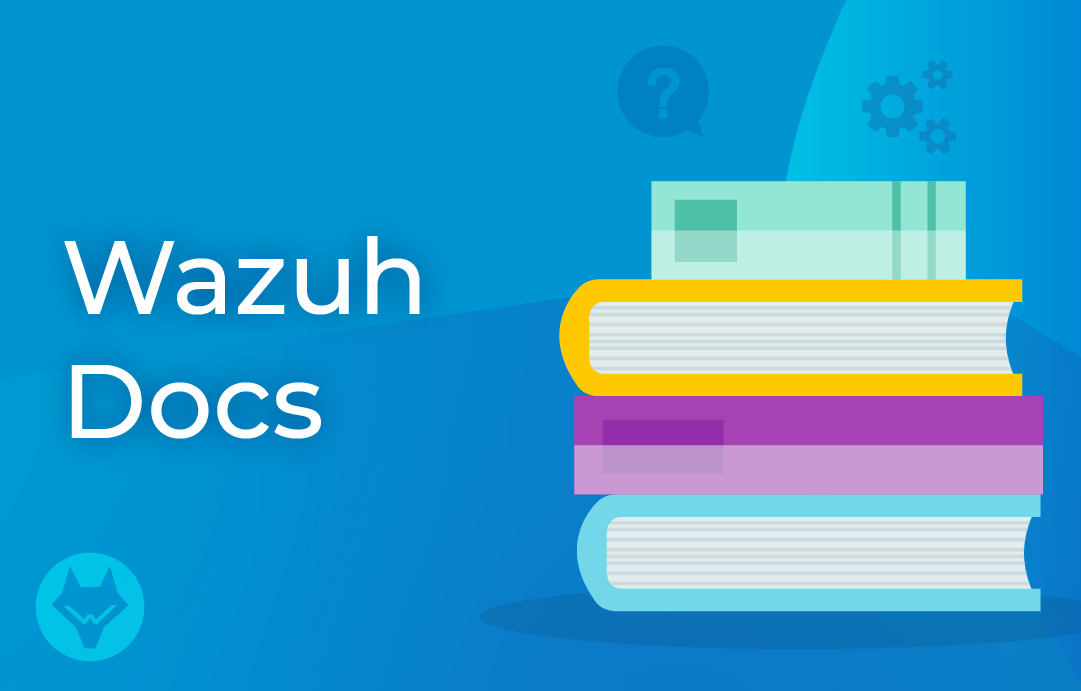
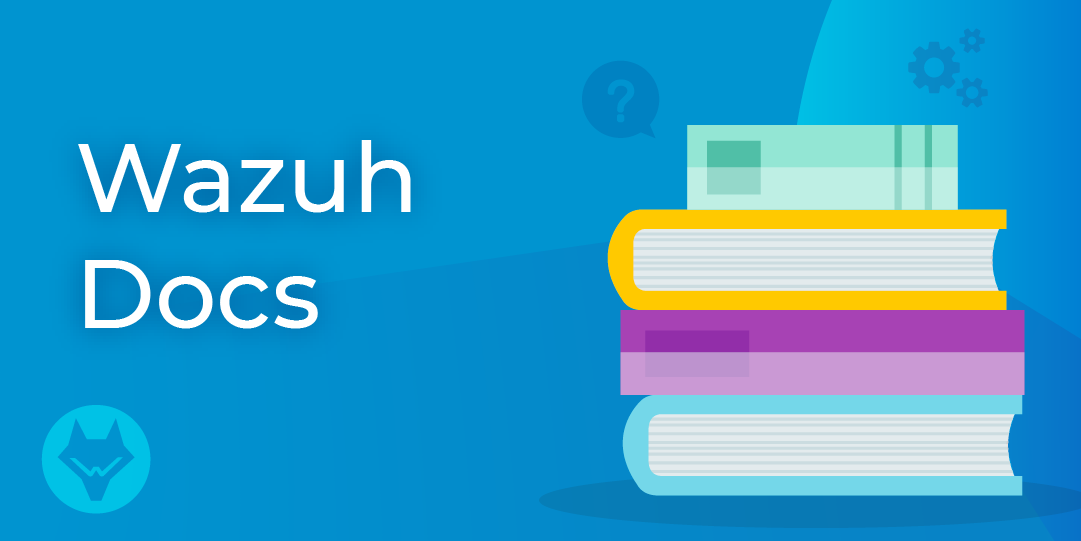
Adjusted image and text for the Twitter card

diff --git a/source/_themes/wazuh_doc_theme/layout.html b/source/_themes/wazuh_doc_theme/layout.html
@@ -42,8 +42,8 @@
 
   <meta name="twitter:card" content="summary_large_image" />
   <meta name="twitter:site" content="@wazuh" />
-  <meta name="twitter:title" content="Wazuh documentation" />
-  <meta name="twitter:description" content="Visit our documentation." />
+  <meta name="twitter:title" content="Documentation · Wazuh · The Open Source Security Platform" />
+  <meta name="twitter:description" content="User manual, installation and configuration guides. Get the most out of Wazuh." />
   <meta name="twitter:image" content="{{ theme_wazuh_doc_url + '/' + version + '/_static/img/wazuh-docs-card.png' }}" />
 
   {{- metatags }}
